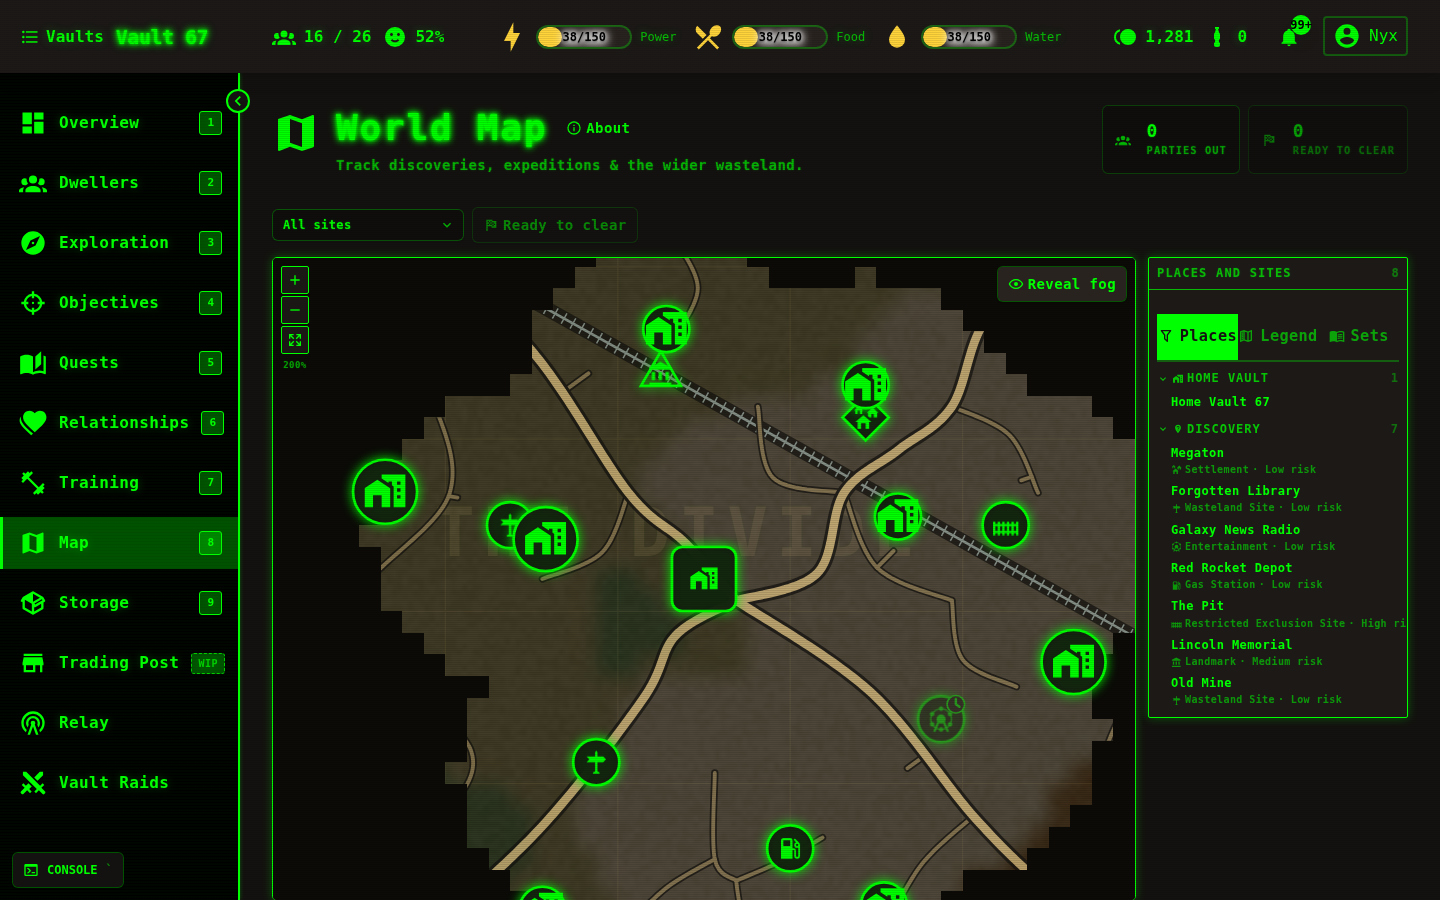
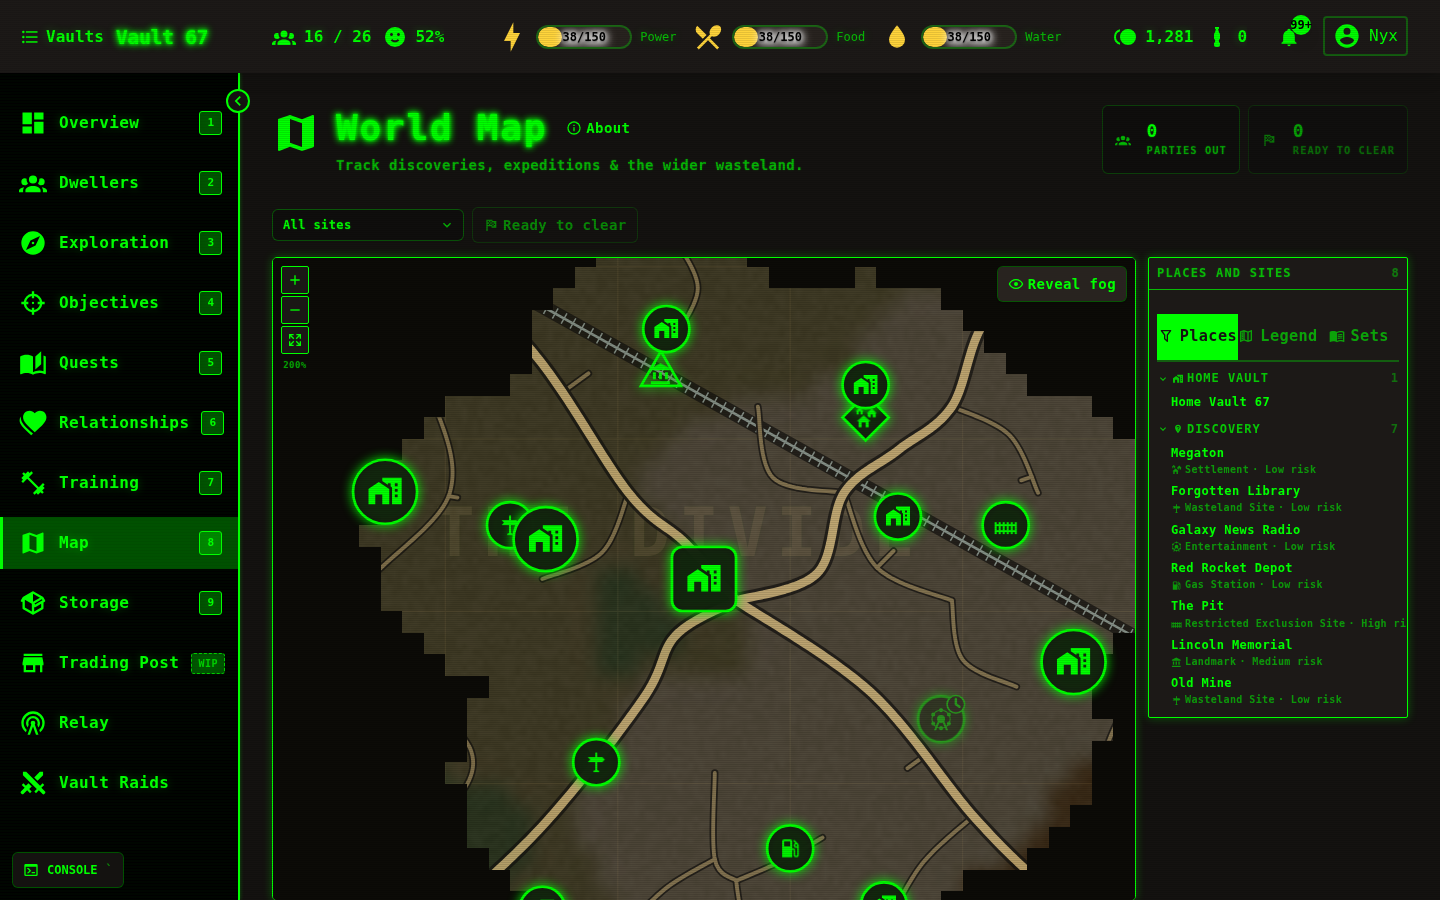
fix(map): let the glyph follow the body scale
Signals passed body-scale 0.72 but no icon scale, so their glyph stayed at the
full 5.4 units inside a 6.05-unit body — 89% fill, which is what made the
circles look like magnified icons. Places were at 60% for the same reason: the
place glyph scale was tuned for a body the body scale no longer drew.

One rule now: the glyph is 4.4 user units times the body scale, so it holds the
same ~52% share of the body everywhere — place markers, vault signals, parties,
expedition sites. PLACE_MARKER_GLYPH_SCALE is gone; call sites that need a
different ratio pass iconScale explicitly.

diff --git a/frontend/tests/unit/components/map/MapMarker.test.ts b/frontend/tests/unit/components/map/MapMarker.test.ts
@@ -2,7 +2,7 @@ import { describe, it, expect } from 'vite-plus/test'
 import { mount } from '@vue/test-utils'
 import { Icon } from '@iconify/vue'
 import MapMarker from '@/modules/map/components/MapMarker.vue'
-import { MARKER_GLYPH_SIZE, PLACE_MARKER_GLYPH_SCALE } from '@/modules/map/models/markerTypeMeta'
+import { MARKER_GLYPH_SIZE } from '@/modules/map/models/markerTypeMeta'
 
 /**
  * Regression tests for invisible markers on the World Map.
@@ -12,7 +12,7 @@ import { MARKER_GLYPH_SIZE, PLACE_MARKER_GLYPH_SCALE } from '@/modules/map/model
  * `<foreignObject>` under an HTML parent collapses to 0x0 in Chromium and made
  * fully-rendered markers invisible.
  */
-const glyphWidth = `${MARKER_GLYPH_SIZE * PLACE_MARKER_GLYPH_SCALE}px`
+const glyphWidth = `${MARKER_GLYPH_SIZE}px`
 
 function mountMarker(props: Record<string, unknown> = {}) {
   return mount(MapMarker, {
@@ -29,7 +29,7 @@ describe('MapMarker', () => {
   })
 
   it('shrinks only the glyph when iconScale is set', () => {
-    const wrapper = mountMarker({ iconScale: PLACE_MARKER_GLYPH_SCALE })
+    const wrapper = mountMarker()
     expect(wrapper.findComponent(Icon).props('width')).toBe(glyphWidth)
     expect(wrapper.find('circle.marker-hit-area').attributes('r')).toBe('6')
     expect(wrapper.find('circle.marker-backing').attributes('r')).toBe('4.2')
@@ -37,18 +37,17 @@ describe('MapMarker', () => {
 
   it('shrinks disc, rings, portrait and label together when bodyScale is set', () => {
     const wrapper = mountMarker({
-      iconScale: PLACE_MARKER_GLYPH_SCALE,
       bodyScale: 0.72,
       selected: true,
       exploring: true,
     })
-    // Body geometry follows the factor, the glyph keeps its own size and the
-    // hit area stays full, so a smaller marker never costs an easier click.
+    // Body and glyph follow the factor together, and the hit area stays full, so
+    // a smaller marker never costs an easier click.
     expect(wrapper.find('circle.marker-backing').attributes('r')).toBe('3.024')
     expect(wrapper.find('circle.marker-select-ring').attributes('r')).toBe('2.232')
     expect(wrapper.find('circle.marker-exploring-ring').attributes('r')).toBe('2.232')
     expect(wrapper.find('circle.marker-hit-area').attributes('r')).toBe('6')
-    expect(wrapper.findComponent(Icon).props('width')).toBe(glyphWidth)
+    expect(wrapper.findComponent(Icon).props('width')).toBe(`${MARKER_GLYPH_SIZE * 0.72}px`)
     const label = wrapper.find('text.marker-label')
     expect(label.attributes('y')).toBe('-2.448')
     expect(label.attributes('style')).toContain('font-size: 1.728px')

diff --git a/frontend/tests/unit/components/map/WorldMap.test.ts b/frontend/tests/unit/components/map/WorldMap.test.ts
@@ -4,10 +4,7 @@ import { mount, type VueWrapper } from '@vue/test-utils'
 import { createPinia, setActivePinia } from 'pinia'
 import WorldMap from '@/modules/map/components/WorldMap.vue'
 import { MAX_ZOOM } from '@/modules/map/composables/useMapZoomPan'
-import {
-  PLACE_MARKER_BODY_SCALE,
-  PLACE_MARKER_GLYPH_SCALE,
-} from '@/modules/map/models/markerTypeMeta'
+import { PLACE_MARKER_BODY_SCALE } from '@/modules/map/models/markerTypeMeta'
 import { bearingDegrees } from '@/modules/map/utils/bearing'
 import { isExploredTile } from '@/modules/map/utils/fog'
 import { ATLAS_TILES, registryToTile } from '@/modules/map/utils/atlasProjection'
@@ -290,7 +287,7 @@ describe('WorldMap', () => {
       expect(wrapper.findAll('.map-marker-stub')).toHaveLength(5)
     })
 
-    it('renders place markers at the smaller place glyph and body scale only', async () => {
+    it('renders place markers at the smaller body scale, which the glyph follows', async () => {
       const [location] = createLocations(1)
       const place = { ...location, type: 'visited' as const }
       // The home vault rides the same locations list, but it is the player's own
@@ -313,7 +310,7 @@ describe('WorldMap', () => {
       const homeMarker = markerNamed(wrapper, homeMarkerLocation.name)
       const vaultMarker = markerNamed(wrapper, 'Vault 100')
 
-      expect(placeMarker.props('iconScale')).toBe(PLACE_MARKER_GLYPH_SCALE)
+      expect(placeMarker.props('iconScale')).toBeUndefined()
       expect(placeMarker.props('bodyScale')).toBe(PLACE_MARKER_BODY_SCALE)
       expect(homeMarker.props('bodyScale')).toBe(1)
       expect(vaultMarker.props('iconScale')).toBeUndefined()

diff --git a/frontend/src/modules/map/components/MapMarker.vue b/frontend/src/modules/map/components/MapMarker.vue
@@ -83,11 +83,13 @@ const displayIcon = computed(() => icon.value)
 const displayLabel = computed(() => (isLocked.value ? 'Unknown Location' : props.name))
 const shouldPulse = computed(() => isDiscovery.value && !isLocked.value && props.unseen)
 
-// Glyph size in marker user units; the backing disc is r=3.8, so this leaves a
-// ring of dark margin around every glyph. Passed to Iconify with an explicit
-// unit: a unitless nested-<svg> width is rejected by Chromium (it then
-// shrink-wraps each icon to its artwork) but honoured by Firefox.
-const glyphSize = computed(() => MARKER_GLYPH_SIZE * props.iconScale)
+// Glyph size in marker user units. It follows the body scale, so the glyph keeps
+// the same share of the body whether the marker is a full-size signal or a
+// shrunk place marker — the old split left signal glyphs at 89% of their disc.
+// Passed to Iconify with an explicit unit: a unitless nested-<svg> width is
+// rejected by Chromium (it then shrink-wraps each icon to its artwork) but
+// honoured by Firefox.
+const glyphSize = computed(() => MARKER_GLYPH_SIZE * props.iconScale * props.bodyScale)
 const glyphSizeCss = computed(() => `${glyphSize.value}px`)
 
 // Every body dimension derives from one factor so disc, rings, badge, portrait

diff --git a/frontend/src/modules/map/models/markerTypeMeta.ts b/frontend/src/modules/map/models/markerTypeMeta.ts
@@ -16,11 +16,10 @@ export interface MarkerTypeMeta {
 // render the same star marker regardless of the site's name.
 export const EXPEDITION_SITE_ICON = 'mdi:map-marker-star'
 
-/** Base glyph size in marker user units (vault signals, parties, explorers). */
-export const MARKER_GLYPH_SIZE = 5.4
-
-/** Place markers render at 67% glyph size now that roads share the atlas. */
-export const PLACE_MARKER_GLYPH_SCALE = 0.67
+/** Base glyph size in marker user units, before the body scale is applied. At
+ *  the default body radius of 4.2 this fills about 52% of the body's width, and
+ *  it keeps that share wherever the body is scaled down. */
+export const MARKER_GLYPH_SIZE = 4.4
 
 /**
  * Place markers draw on a 72% body: the backing disc, selection rings, badges

diff --git a/frontend/src/modules/map/components/WorldMap.vue b/frontend/src/modules/map/components/WorldMap.vue
@@ -17,7 +17,6 @@ import type {
 import {
   EXPEDITION_SITE_ICON,
   PLACE_MARKER_BODY_SCALE,
-  PLACE_MARKER_GLYPH_SCALE,
   locationMarkerIcon,
 } from '../models/markerTypeMeta'
 import { groupColor } from '../models/groupColors'
@@ -587,7 +586,6 @@ function handleTouchEnd(event: TouchEvent) {
              cluster are rendered as the badge below instead) -->
         <MapMarker
           :scale="markerScale"
-          :icon-scale="PLACE_MARKER_GLYPH_SCALE"
           :body-scale="loc.type === 'home_vault' ? 1 : PLACE_MARKER_BODY_SCALE"
           v-for="loc in renderedLocationsIndividual"
           :key="`loc-${loc.id}`"
